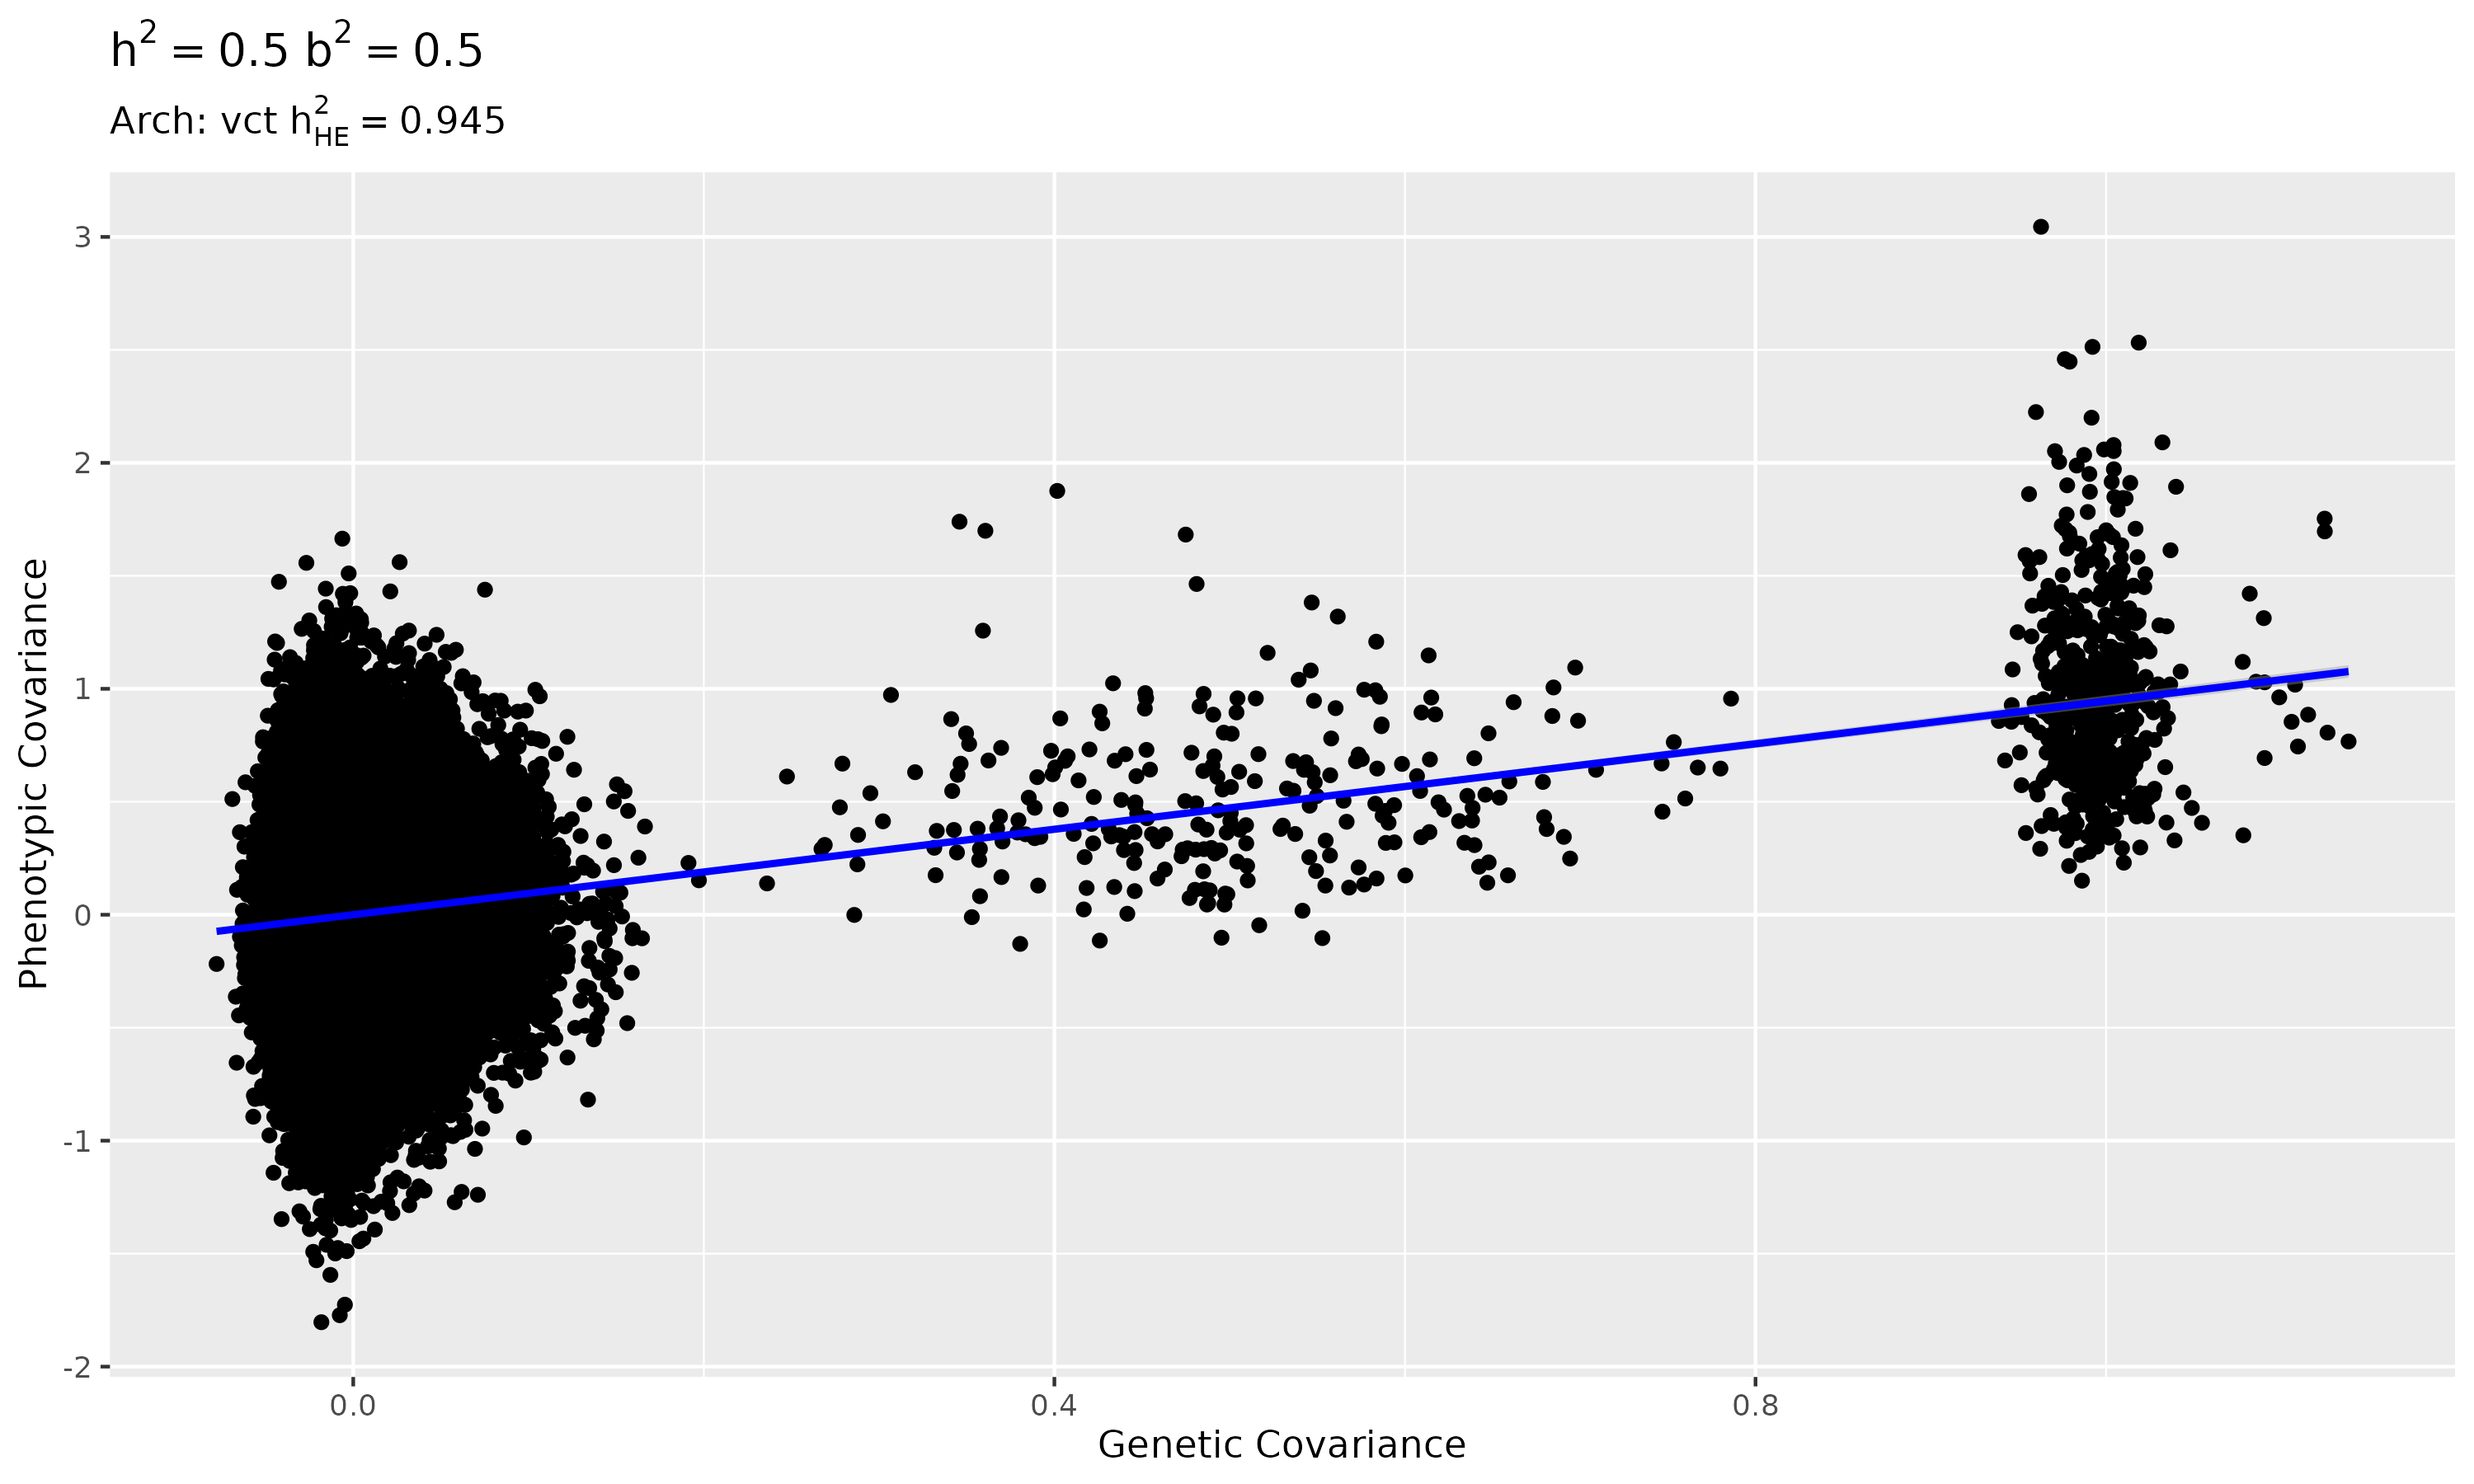
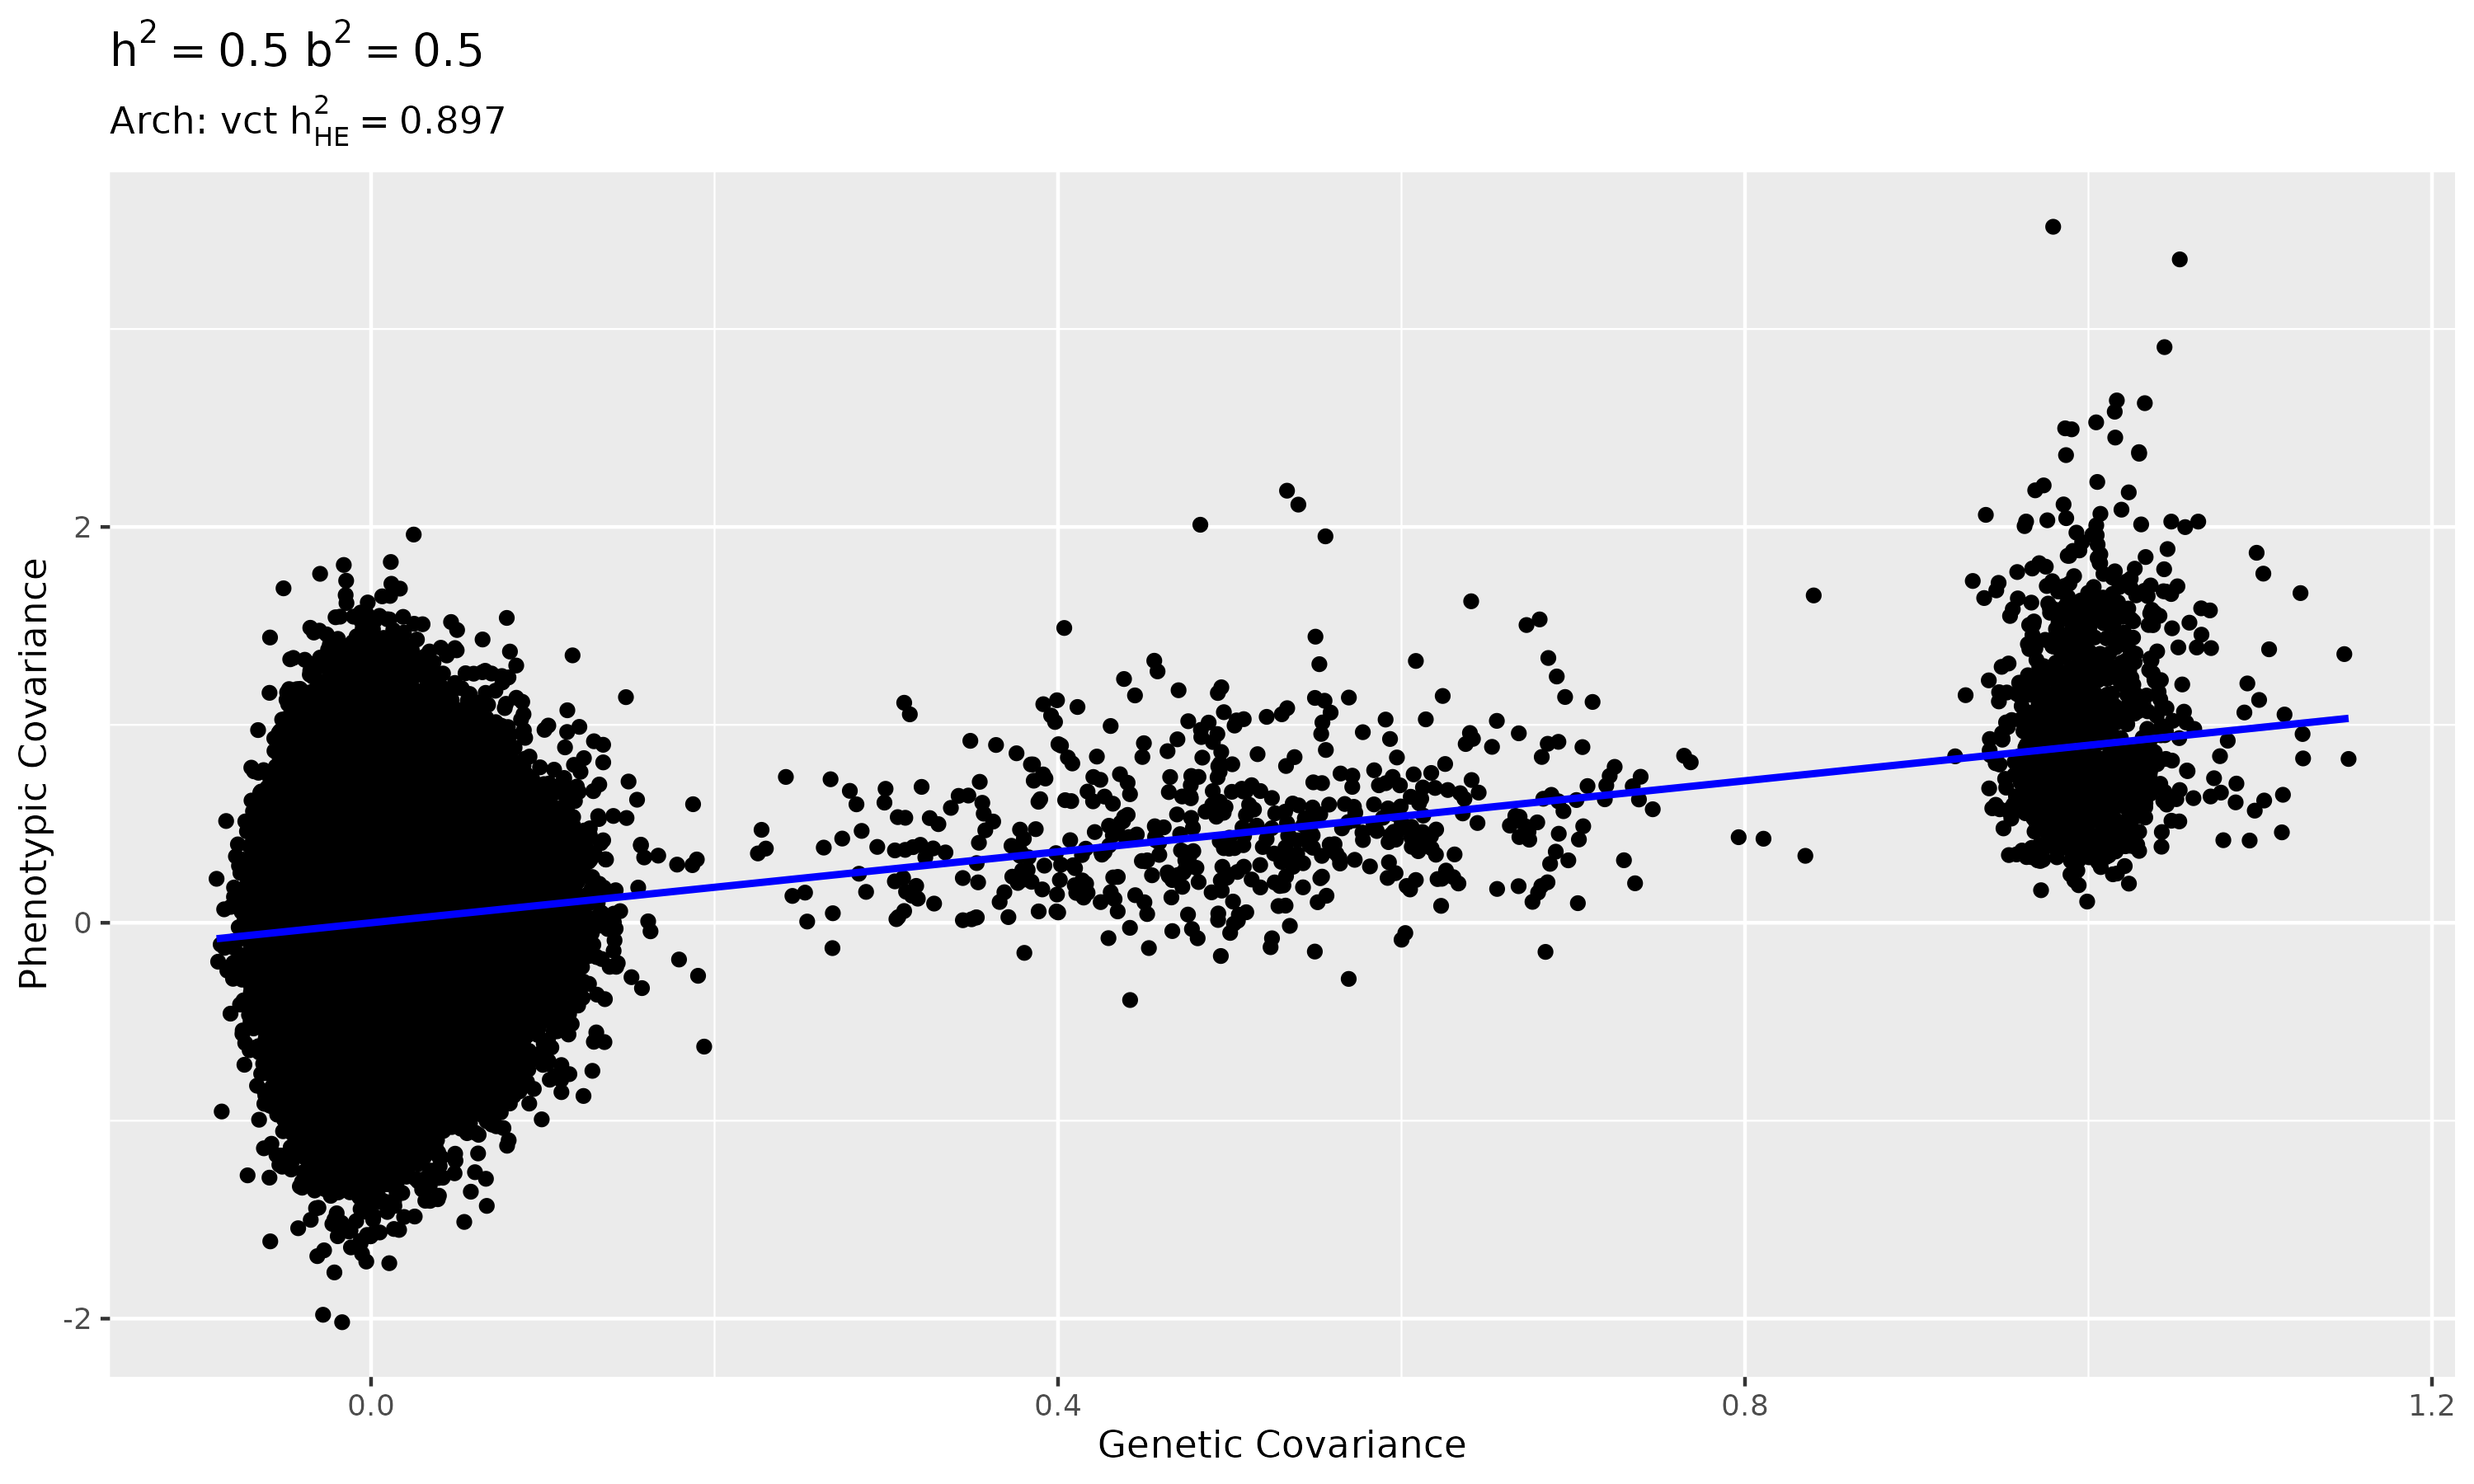
little bit faster, little bit better looking

diff --git a/scripts/minimal_simulation_utils.py b/scripts/minimal_simulation_utils.py
@@ -148,11 +148,10 @@ def make_covariance_matrix(
             if mask.any():
                 pd_pheno.loc[:, mask] = (pd_pheno.loc[:, mask] - pd_pheno.loc[:, mask].mean()) / pd_pheno.loc[:, mask].std()
     # GRM for genetic covariance.
-    # grm = compute_grm(simulation, maf_min=maf)
+    grm = compute_grm(simulation, maf_min=maf)
 
     # Phenotype-related covariance matrices.
     pcov = pd_pheno.loc[:, ('Y', 'phenotype')] @ pd_pheno.loc[:, ('Y', 'phenotype')].T
-    acov = pd_pheno.loc[:, ('Y', 'additiveGenetic')] @ pd_pheno.loc[:, ('Y', 'additiveGenetic')].T
 
     # Upper-triangle entries (including diagonal).
     num_individuals = len(ids)
@@ -167,7 +166,7 @@ def make_covariance_matrix(
         "pedigree_id1": [pair[0] for pair in individual_pairs],
         "pedigree_id2": [pair[1] for pair in individual_pairs],
         "Y": pcov.values[tri_idx],
-        "Genetic_Covariance": acov.values[tri_idx],
+        "Genetic_Covariance": grm[tri_idx],
     }
 
     covariances = pd.DataFrame(data)
